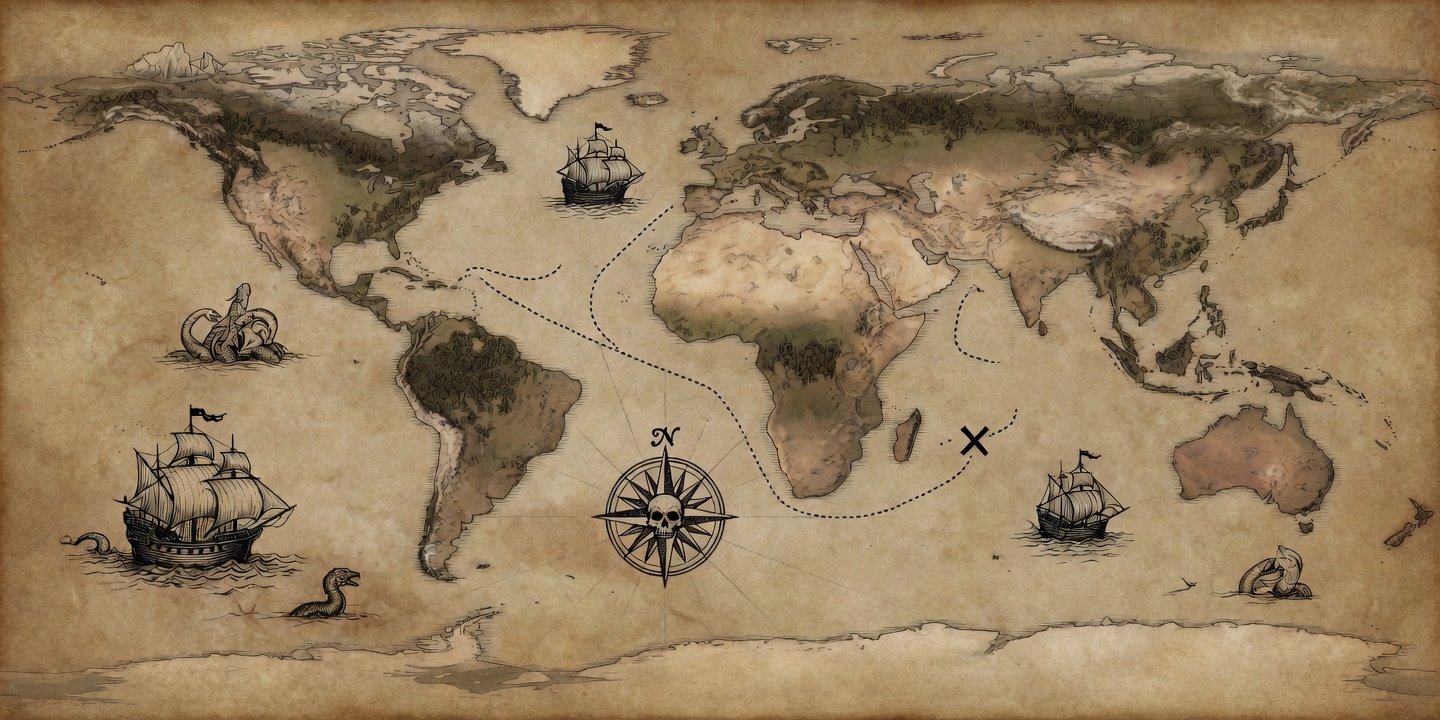
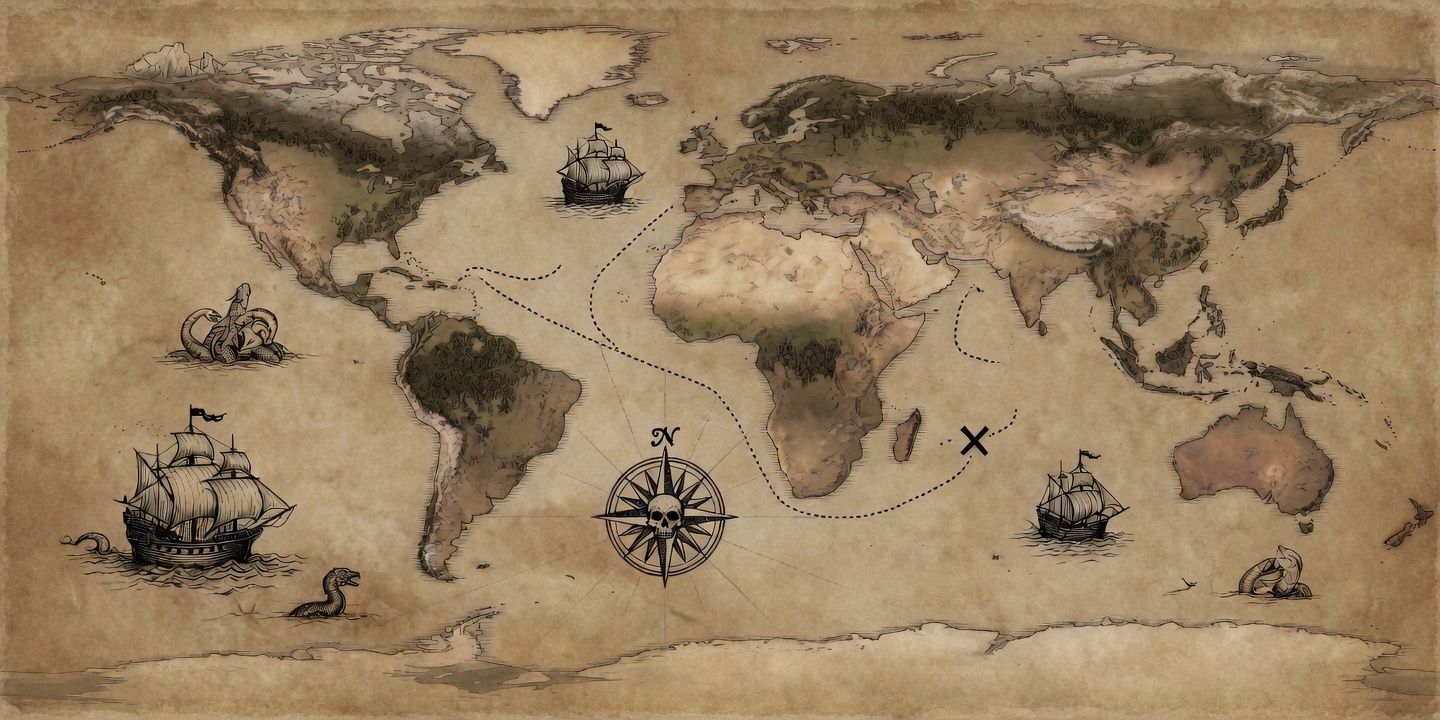
Add 4 map styles (Game, Grayscale, Mono, Trip) + update Pirate Map
- New stylized maps: Game (neon civ-map), Grayscale (B&W satellite),
  Mono (dark moody stone world), Trip (psychedelic fantasy).
- Brightness overrides for the dark sources so they're legible:
  Grayscale 1.7, Mono 1.95 (Mono stays intentionally moody — ACES holds
  its shadows, so it reads but keeps its dark character).
- Swapped in the latest Pirate Map image.

diff --git a/src/data/mapStyles.ts b/src/data/mapStyles.ts
@@ -44,8 +44,10 @@ const OVERRIDES: Record<
   // 'topo-bathy': { label: 'Topographic', realistic: true },
   // Make the painted aurora glow (emissive) so it reads as 3D light.
   Aurora: { aurora: true },
-  // Cyber's source is quite dark — lift it more so it's easy to make out.
+  // Darker sources — lift them so they're easy to make out.
   Cyber: { brightness: 1.6 },
+  Grayscale: { brightness: 1.7 },
+  Mono: { brightness: 1.95 },
 }
 
 /** Auto-discovered stylized maps from src/assets/map-styles/. */